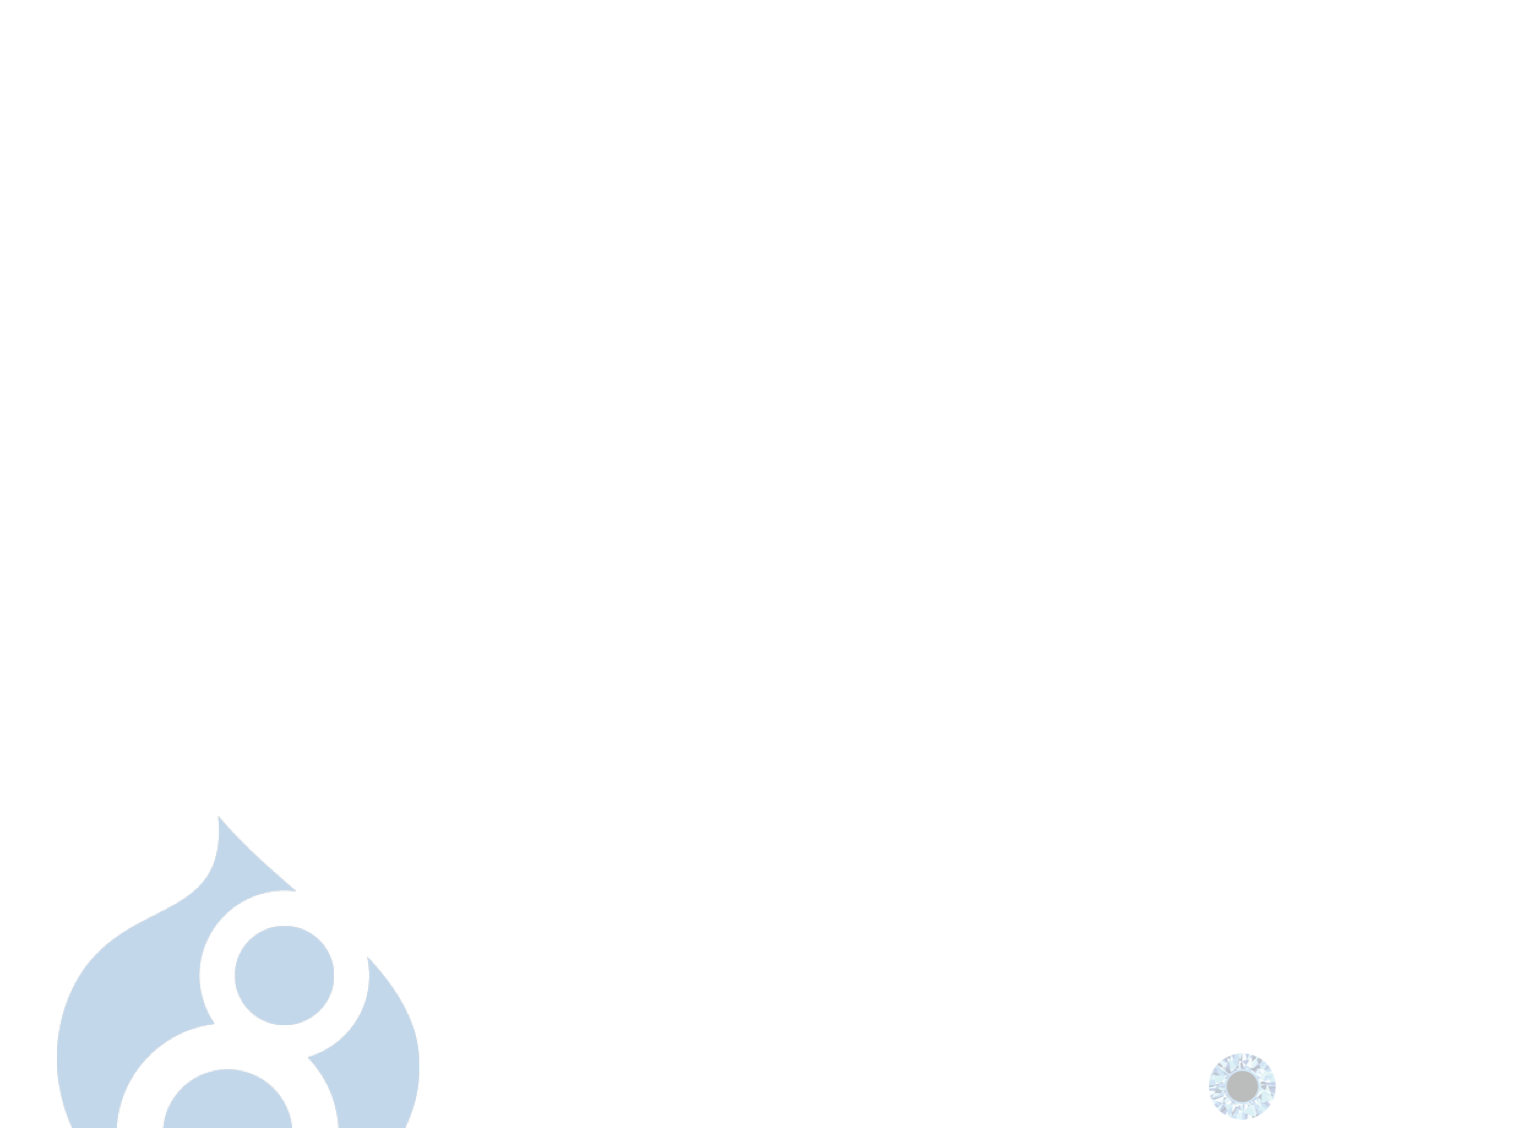
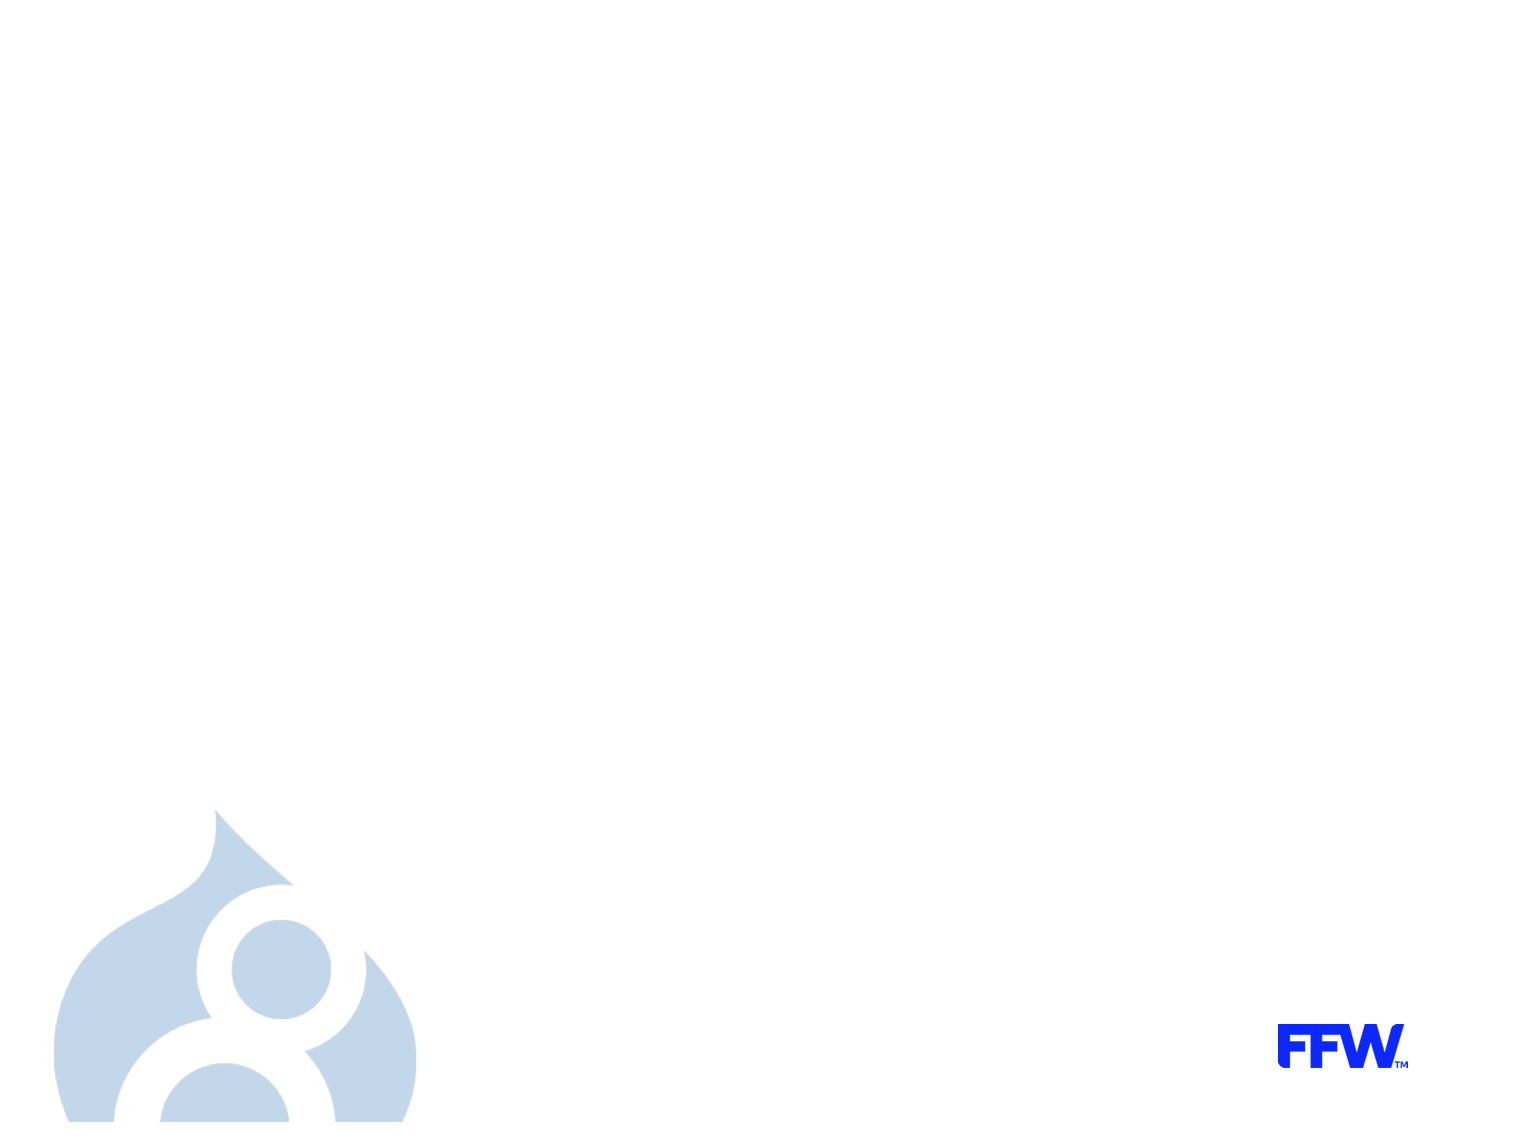
Agencies and Associations changes

diff --git a/index.html b/index.html
@@ -4,7 +4,7 @@
 	<head>
 		<meta charset="utf-8">
 
-		<title>Hands On with Drupal 8: Part 1, Site Building</title>
+		<title>Drupal 8 for Agencies and Associations</title>
 
 		<meta name="description" content="A framework for easily creating beautiful presentations using HTML">
 		<meta name="author" content="Hakim El Hattab">
@@ -48,11 +48,32 @@
 			<div class="slides">
 				<section>
                     <section data-background-image="images/background.png" data-background-size="contain">
-                        <h1>Hands On With Drupal 8</h1>
-                        <h2>8.x Internals for site builders</h2>
+                        <h1>Drupal 8 Site Building, Configuration Management and Cloud Hosting for Agencies and Associations</h1>
+<!--                         <h2>8.x Internals for site builders</h2> -->
                     </section>
 				</section>
-                <section>
+<section data-background-image="images/background.png" data-background-size="contain">
+		<h1>Who are we</h1>
+		<img src="images/br_pp.png">
+		<h2>http://www.ffwagency.com</h2></section>
+<section>
+	<section data-background-image="images/background.png" data-background-size="contain">
+		<h1>Credits and Disclaimers</h1>
+
+Thank you to all who contributed to this presentation including every single D8 contributor and
+
+@webchick
+@learningdrupal
+@socketwench
+@drupalassociation
+@ffwglobal
+@ffwdev
+@jmolivas
+</section>
+<section>
+			<img src="images/underconstruction.png">
+</section>
+		<!--                 <section>
                     <section data-background-image="images/background.png" data-background-size="contain">
                         <h1>Who is This Person?</h1>
                         <img src="images/whatDoYouMeanTheTestsPassed.jpg">
@@ -76,7 +97,7 @@
                     </section>
                     <section>
                         <h2>Drupal Developer with</h2>
-                        <img src="images/blinkReactionLogo.png" />
+                        <img src="images/FFW LOGO RGB.png" />
                         <p class="fragment">(We're hiring!)</p>
                         <aside class="notes">
                             I work as a developer with Blink Reaction. We're soon to be the world's largest Drupal
@@ -84,14 +105,19 @@
                             project, or talk to anyone at the booth outside.
                         </aside>
                     </section>
-                </section>
+                </section> -->
+
                 <section>
-                    <section data-background-image="images/background.png" data-background-size="contain">
-                        <h1>Follow along</h1>
-                        <p>http://socketwench.github.io/handsOnD8SiteBuilder</p>
-                    </section>
-                </section>
-                <section>
+									<h1>Find us at</h1>
+									<h2>ray.saltini@ffwagency.com</h2>
+									<h2>@raysaltini</h2>
+									<h2>ricardo.osuna@ffwagency.com</h2>
+									<h2>eric.mandel@blackmesh.com</h2>
+								</section>
+								<section>
+									<h2>Class Notes - https://goo.gl/B3ESK1</h2>
+									<h2>Feedback - ffwcoe.drupalgardens.com</h2>
+								</section>
                     <section data-background-image="images/background.png" data-background-size="contain">
                         <h1>How different is D8?</h1>
                     </section>
@@ -157,6 +183,7 @@
                     <section>
                         <h2>Hosting Providers</h2>
                         <img src="images/hostingProviders.png">
+												<img src="images/blackmesh_logo.png">
                         <p class="fragment">And many others...</p>
                     </section>
                 </section>
@@ -210,11 +237,11 @@
                         <h2>Using Simplytest.me</h2>
                         <img src="images/installSimplytest2.png">
                     </section>
-                    <section>
+<!--                     <section>
                         <h2>Using Pantheon</h2>
                         <p>Free for 3 dev sites</p>
                         <p>http://getpantheon.com/d8</p>
-                    </section>
+                    </section> -->
                     <section>
                         <h2>The Install Wizard</h2>
                         <p>Prettier & handles languages better</p>
@@ -250,9 +277,8 @@
                         <img src="images/install7.png">
                     </section>
                     <section data-background-image="images/background.png" data-background-size="contain">
-                        <h1>Your Turn!</h1>
-                        <p>Pair up!</p>
-                        <p>If neither of you have a web server installed, choose a hosting provider</p>
+                        <h1>Do try at home!</h1>
+                        <p>If you don't have a web server installed, choose a hosting provider</p>
                         <p>Install the latest Drupal 8 Beta</p>
                         <h2>Time: 15 minutes</h2>
                     </section>
@@ -410,8 +436,8 @@
                     <section>
                         <img src="images/fullExportUI.png">
                     </section>
-                    <section>
-                        <h1>Your Turn</h1>
+                     <section>
+                        <h1>Do try at home</h1>
                         <p>Create a new content (node) type</p>
                         <p>Export your new content type</p>
                         <p>Make changes to your content type</p>
@@ -495,7 +521,7 @@
                         <p>Migrated from site to site</p>
                     </section>
                     <section>
-                        <h1>Your Turn!</h1>
+                        <h1>Do try at home!</h1>
                         <p>Create a new field for your content type</p>
                         <p>Re-export your content type, did anything change?</p>
                         <p>Explore the export interface, find <strong>two</strong> places to export your field</p>
@@ -534,7 +560,7 @@
                         <img src="images/exportUserSettings.png">
                     </section>
                     <section>
-                        <h1>Your Turn</h1>
+                        <h1>Do try at home</h1>
                         <p>Create a new user</p>
                         <p>Create a custom field for the user, export it</p>
                         <p>Answer: Are users content or config?</p>
@@ -612,7 +638,7 @@
                         <img src="images/defaultRoles5.png">
                     </section>
                     <section>
-                        <h1>Your turn</h1>
+                        <h1>Do try at home</h1>
                         <p>Create a "content editor" role</p>
                         <p>Assign it node creation/editing rights</p>
                         <p>Answer: How do you export permissions?</p>
@@ -651,7 +677,7 @@
                         <img src="images/viewExport.png">
                     </section>
                     <section>
-                        <h1>Your turn</h1>
+                        <h1>Do try at home</h1>
                         <p>Create demo content using your new content type</p>
                         <p>Beginners: Create a new view for your content type</p>
                         <p>Modify one of core's default views</p>
@@ -712,7 +738,7 @@
                         <p class="fragment"><code>core/</code> directory makes upgrading easier</p>
                         <p class="fragment">There is no <code>sites/all</code> directory</p>
                     </section>
-                    <section>
+<!--                     <section>
                         <h2>Installing on Simplytest.me</h2>
                         <p>Not really possible</p>
                         <p>Create new instance, select module to install</p>
@@ -721,7 +747,7 @@
                         <h2>Installing on Pantheon</h2>
                         <p>Click "SFTP" in your dashboard</p>
                         <p>Use your favorite SFTP client</p>
-                    </section>
+                    </section> -->
                     <section>
                         <h2>Contrib Modules and Configuration</h2>
                         <p>Any properly designed module will have exportable config</p>
@@ -750,7 +776,7 @@
                         <p>Download the 8.x-4.x-dev version</p>
                     </section>
                     <section>
-                        <h1>Your turn</h1>
+                        <h1>Do try at home</h1>
                         <p>Download and install Flag module</p>
                         <p>Create a new Flag: Admin > Structure > Flags</p>
                         <p>Export your new Flag</p>
@@ -808,7 +834,7 @@
                         <p>Accessible and responsive</p>
                     </section>
                     <section>
-                        <h1>Your turn</h1>
+                        <h1>Do try at home</h1>
                         <p>Download and install Omega 8.x</p>
                         <h2>Time: 5 minutes</h2>
                     </section>
@@ -909,7 +935,7 @@
                         <p>Error message will identify missing configuration</p>
                     </section>
                     <section>
-                        <h1>Your turn</h1>
+                        <h1>Do try at home</h1>
                         <p>Perform a full export</p>
                         <p>Build a new feature module based on your custom content type</p>
                         <p>Delete your custom configuration</p>
@@ -917,19 +943,28 @@
                         <h2>Time: 20 minutes</h2>
                     </section>
                 </section>
+<section>
+		<section data-background-image="images/background.png" data-background-size="contain">
+				<h1>Do try this at home</h1>
+				<p>https://github.com/raysaltini/handsOnD8SiteBuilder</p>
+		</section>
+</section>
                 <section>
-                    <section>
+<!--                     <section>
                         <h2>Come Sprint with Us!</h2>
                         <p>Learn and contribute to Drupal Core</p>
                         <p class="fragment">Mentors will help you setup and find issues</p>
                         <p class="fragment">9am - 4pm on the FTC Campus</p>
-                    </section>
+                    </section> -->
                     <section data-background-image="images/background.png" data-background-size="contain">
                         <h1>Thank you!</h1>
                         <p>&nbsp;</p>
-                        <p>@socketwench</p>
-                        <p>&nbsp;</p>
-                        <p>http://socketwench.github.io/handsOnD8SiteBuilder</p>
+                        <p>ray.saltini@ffwagency.com</p>
+												<p>@raysaltini</p>
+												<p>ffwagency.com</p>
+												<p>feedback - http://www.ffwcoe.drupalgardens.com
+<!--                         <p>&nbsp;</p>
+                        <p>http://socketwench.github.io/handsOnD8SiteBuilder</p> -->
                     </section>
                 </section>
             </div>
